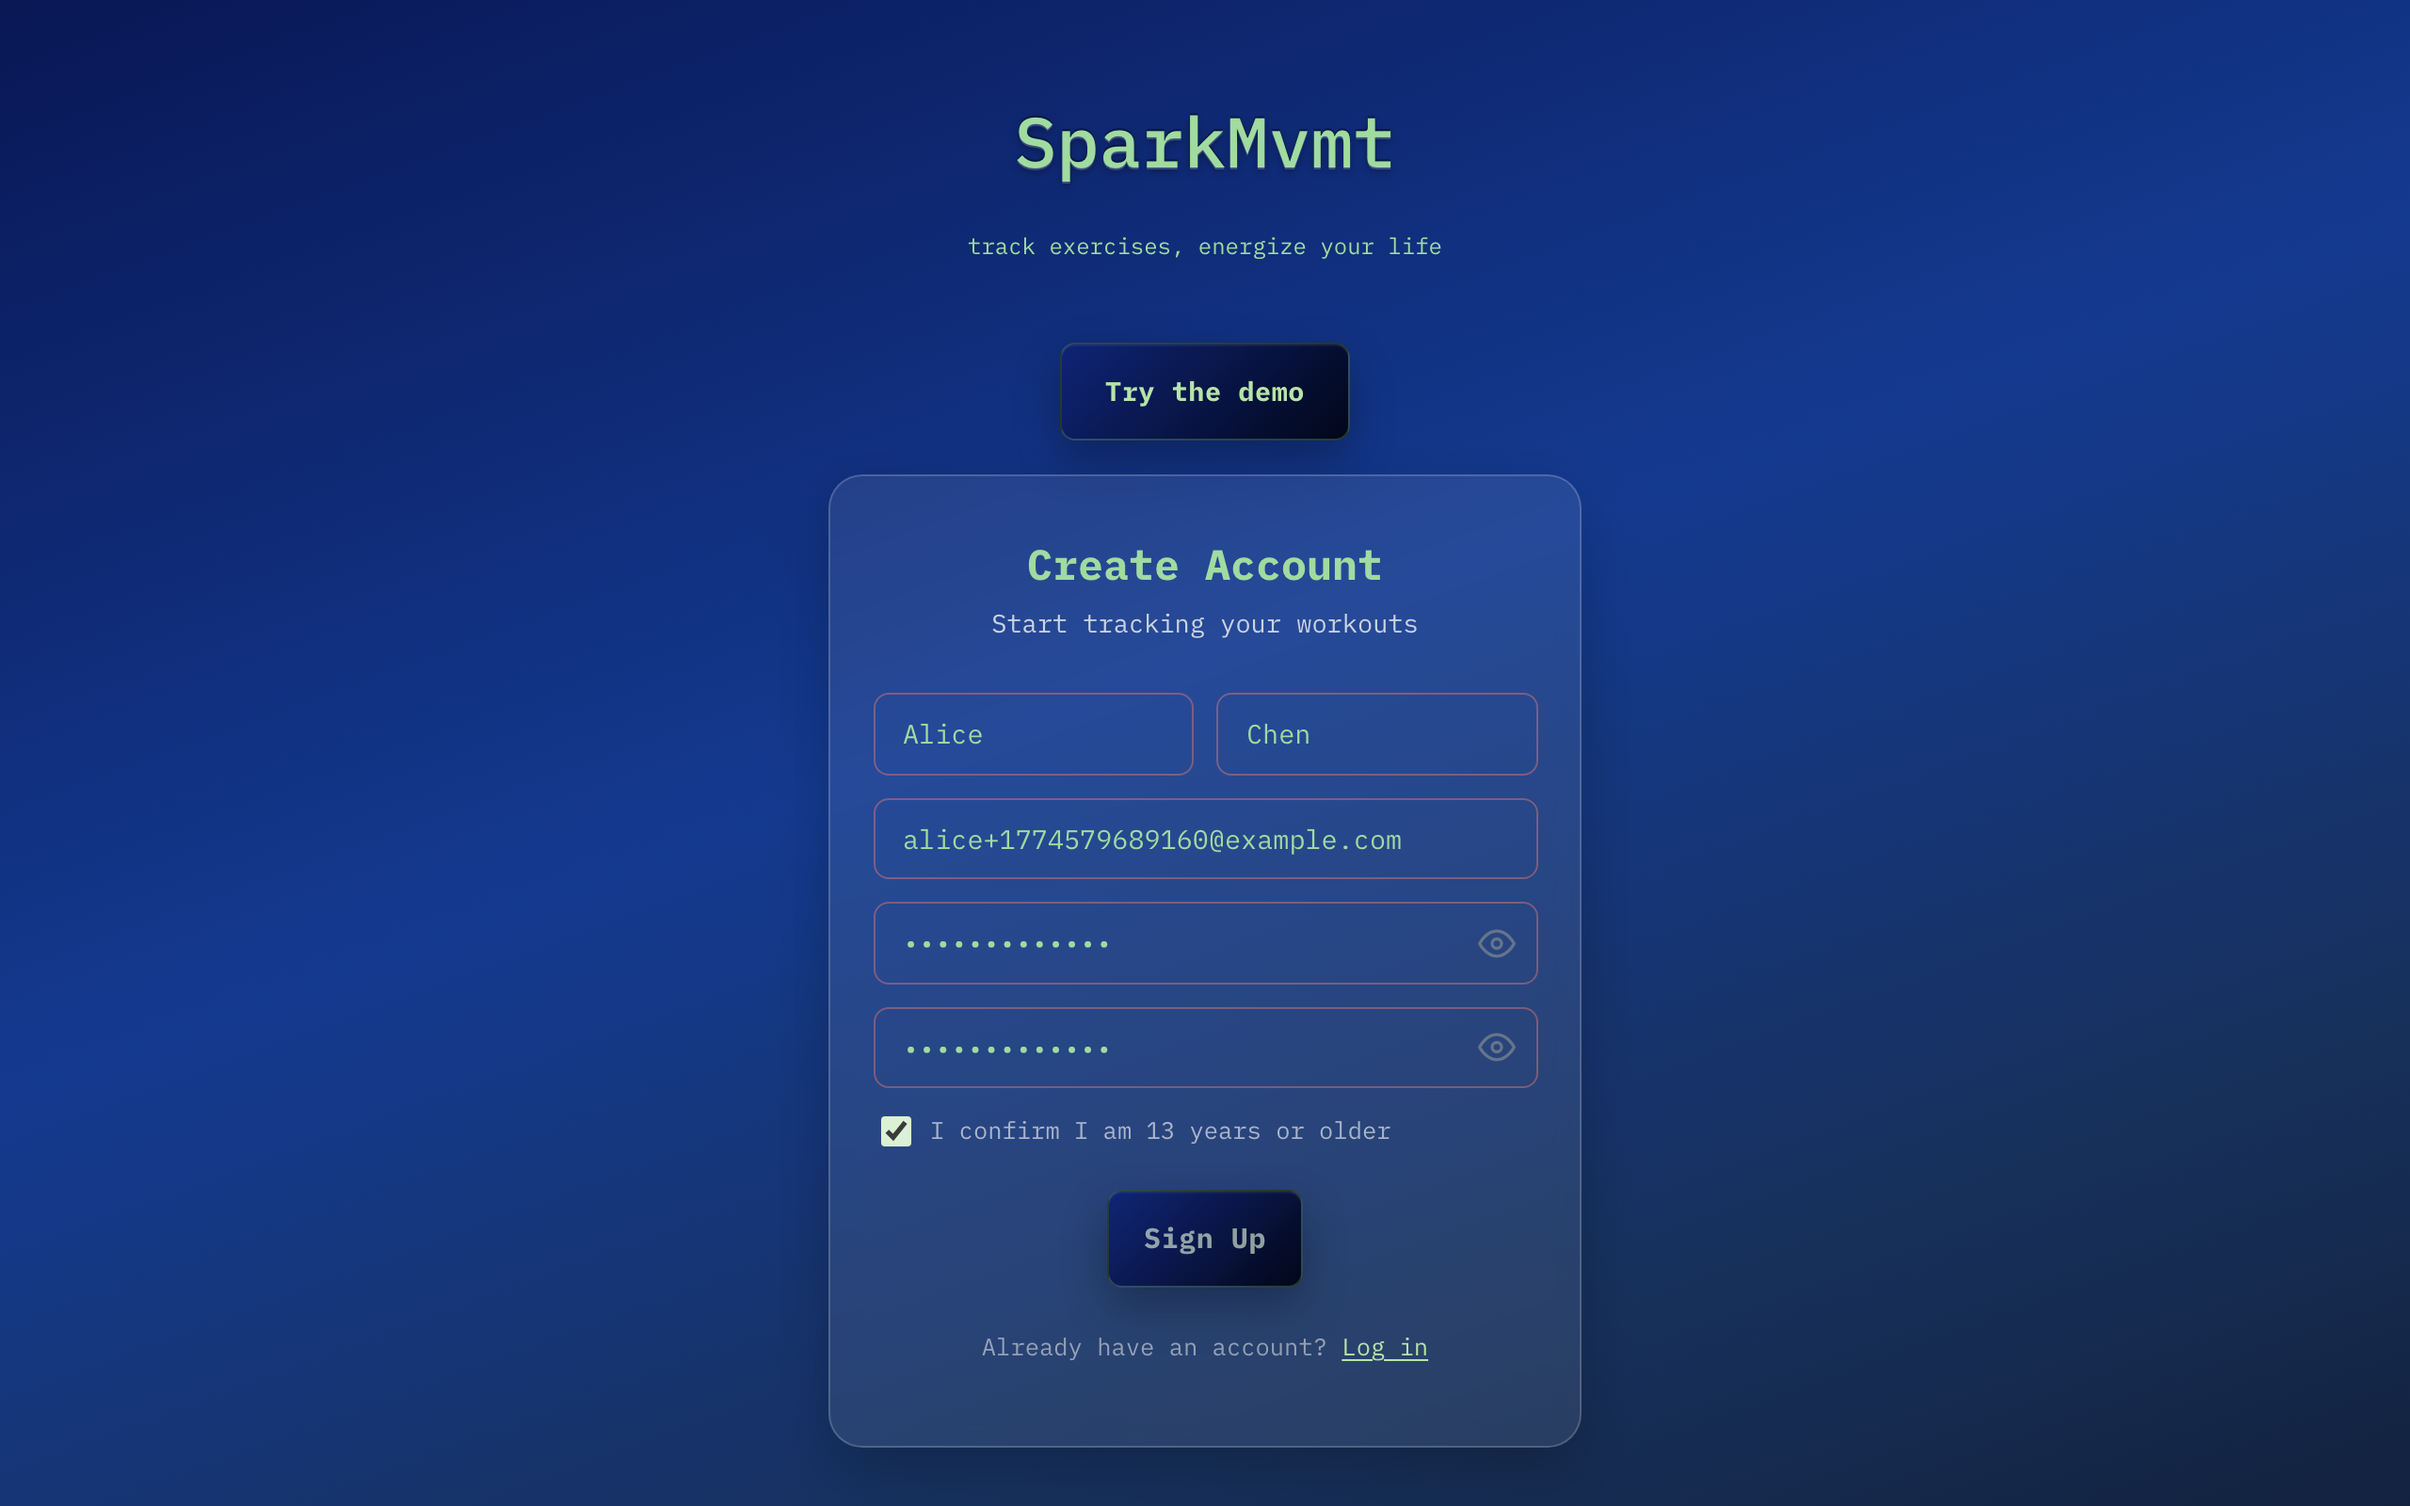
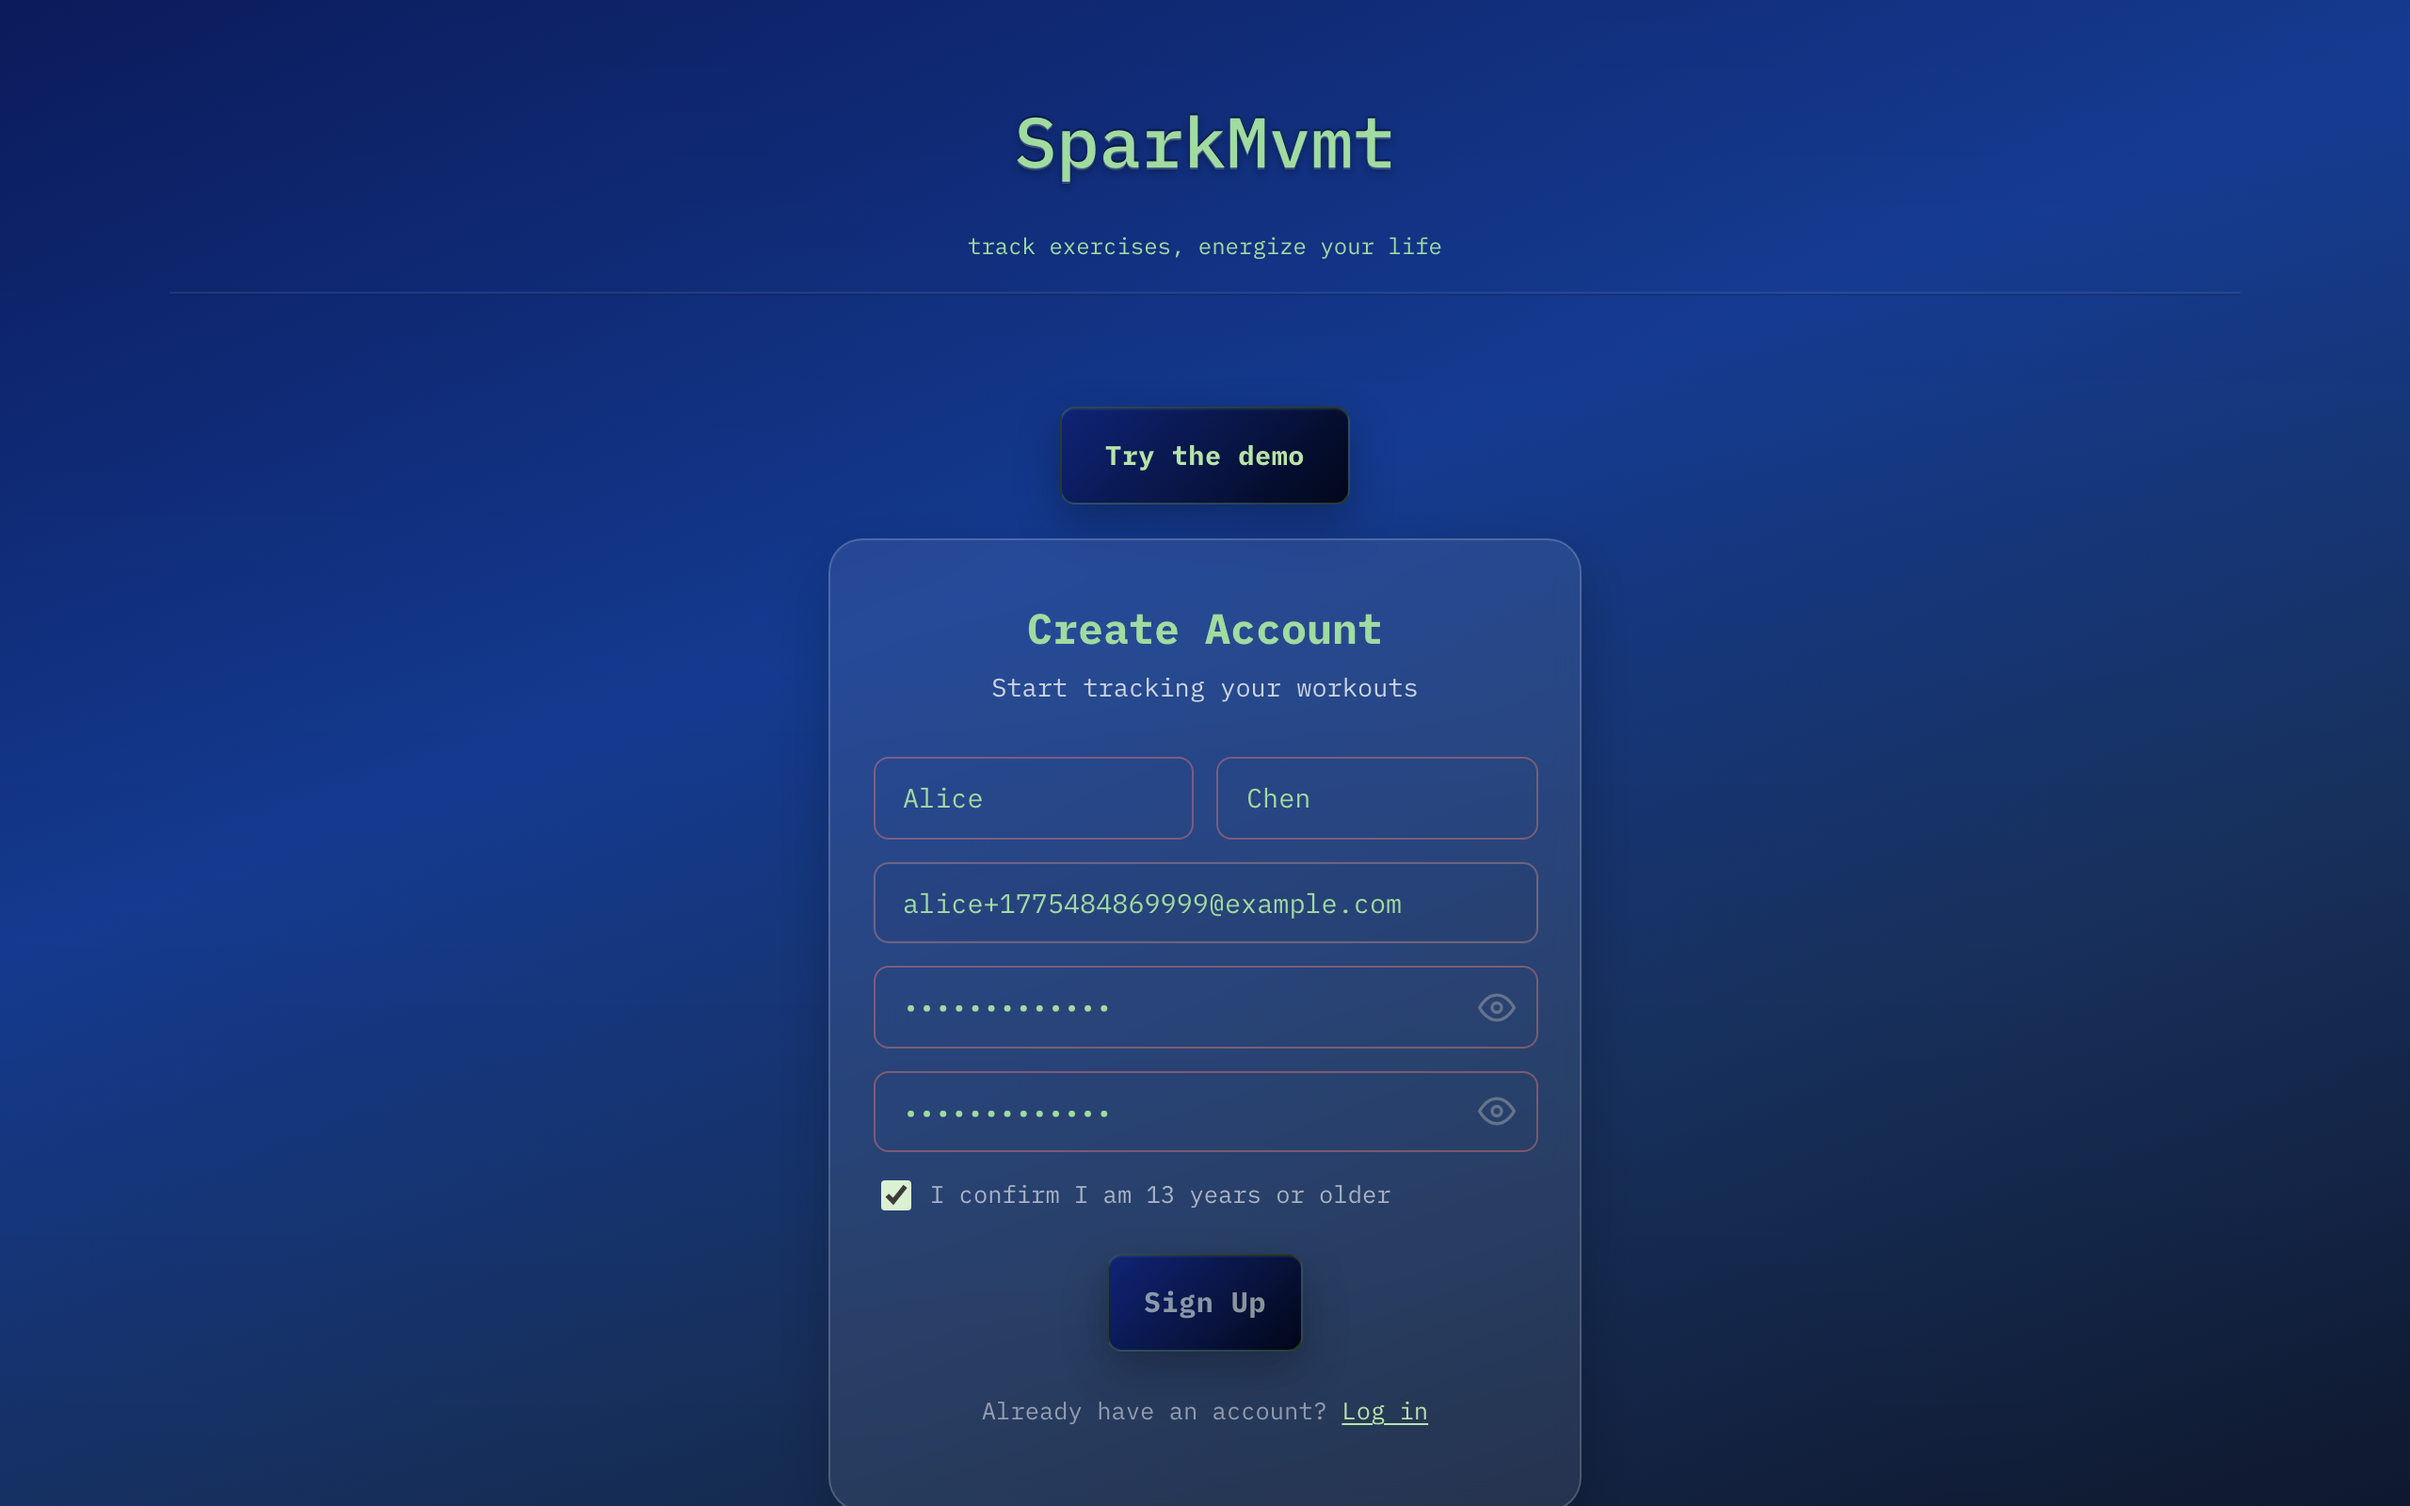
Refresh README and screenshots for dashboard release
- rerun screenshot captures against the current app UI
- update README copy to better reflect the dashboard-first product story
- refresh screenshot captions and testing/CI descriptions
- keep project structure details accurate without stale test-count breakdowns

diff --git a/README.md b/README.md
@@ -2,9 +2,9 @@
 
 **[Live Demo →](https://sparkmvmt.com)**
 
-Full-stack exercise tracker where users log, edit, duplicate, and delete workouts through a responsive single-page UI. Exercise names and notes are encrypted on your device before they leave the browser — not even the server can read them. One-click demo mode lets anyone try it instantly.
+Full-stack exercise tracker for logging workouts and getting something meaningful back from the habit. A dashboard reflects activity with adaptive exercise counts, editable purpose, and latest PR surfacing, while exercise names and notes are encrypted on your device before they leave the browser. One-click demo mode lets anyone try it instantly.
 
-React + Vite SPA on S3 + CloudFront, Dockerized Express API on EC2 Auto Scaling Group behind an ALB with ACM TLS termination. E2E encryption (AES-256-GCM, PBKDF2-derived keys, IndexedDB cache), SSM Parameter Store for secrets, IAM role-based ECR auth, JWT token rotation with Argon2, object-level authorization, 120 automated tests, and CI/CD via GitHub Actions.
+React + Vite SPA on S3 + CloudFront, Dockerized Express API on EC2 Auto Scaling Group behind an ALB with ACM TLS termination. E2E encryption (AES-256-GCM, PBKDF2-derived keys, IndexedDB cache), SSM Parameter Store for secrets, IAM role-based ECR auth, JWT token rotation with Argon2, object-level authorization, 133 automated tests, and CI/CD via GitHub Actions.
 
 ## Architecture
 
@@ -29,9 +29,9 @@ api.sparkmvmt.com →  │    ALB (ACM TLS termination)     │
                      │         MongoDB Atlas            │
                      └──────────────────────────────────┘
 
-CI/CD: GitHub Actions → test → build (ARM) → push ECR → ASG rolling deploy → smoke test
-       Frontend deploys after backend (sequential)
-       Manual dispatch available for operational recovery
+CI/CD: GitHub Actions → backend/frontend checks → E2E → backend deploy + smoke test → frontend deploy
+Frontend deploys independently on frontend-only changes; full-stack deploys sequence backend then frontend.
+Manual dispatch is available for operational recovery.
 ```
 
 - **Frontend:** Vite + React SPA deployed to S3, served via CloudFront
@@ -42,31 +42,34 @@ CI/CD: GitHub Actions → test → build (ARM) → push ECR → ASG rolling depl
 ## Screenshots
 
 ![Sign up](docs/01-signup.png)
-*Account creation with real-time password validation*
+*Account creation with live validation and a direct path into the app*
 
 ![Welcome](docs/02-home-empty.png)
-*Empty state with example row and welcome message*
+*First-run home state that points the user toward logging right away*
 
 ![Exercise log](docs/04-home-populated.png)
-*Home page with logged exercises*
+*Dashboard that reflects progress back to the user with activity, purpose, PRs, and a progressive log*
 
 ![Log an exercise](docs/03-create-exercise.png)
-*Exercise form with bodyweight support*
+*Exercise form with room for context, not just reps and weight*
 
 ---
 
 ## Features
 
+- **Dashboard summary** — adaptive exercise count card, editable purpose, and latest PR card on arrival
+- **Personal record tracking** — current and historic PR detection for weighted and bodyweight movements
+- **Demo mode** — one-click demo account with realistic seeded history, full CRUD access, auto-deleted after 24h
 - **E2E encryption** — exercise names and notes encrypted client-side before leaving the browser; the server stores only ciphertext
-- **Demo mode** — one-click demo account with ~25 seeded exercises, full CRUD access, auto-deleted after 24h
 - Log, edit, duplicate, and delete exercises
 - Exercise detail page with optional notes
 - Clickable table rows for quick access to details
+- Progressive exercise log reveal with `Less / More / All` controls and filtered tail preview
 - Dual save buttons on create: save & return, or save & add another
 - Confirm overlays for delete and discard actions
 - Bodyweight exercise support
 - Responsive desktop and mobile layouts with adaptive date formatting
-- Floating action button for quick exercise logging
+- Sticky log CTA for quick exercise logging
 - Accessible form controls with keyboard navigation
 - Real-time form validation with toast feedback
 - Session restoration across page reloads with loading states
@@ -83,10 +86,10 @@ CI/CD: GitHub Actions → test → build (ARM) → push ECR → ASG rolling depl
 - DB-aware health check (`/health` verifies MongoDB connection) — ALB auto-replaces unhealthy instances
 - Graceful shutdown on SIGTERM for zero-downtime container deploys
 - ECR image pipeline with IAM instance role authentication
-- 120 automated tests: 91 backend (node:test + supertest + mongodb-memory-server) and 29 E2E (Playwright)
+- 133 automated tests: 96 backend (node:test + supertest + mongodb-memory-server), 8 frontend (Vitest + Testing Library), and 29 E2E (Playwright)
 - Client-side E2E encryption — AES-256-GCM with PBKDF2-derived keys, per-field IV, IndexedDB cache for decrypted data across sessions. Zero-knowledge: the server never sees plaintext or the user's password
-- CI/CD via GitHub Actions — OIDC auth (no stored AWS keys), change detection gates deploys, native ARM builds with Docker layer caching, sequential deploy ordering (backend then frontend), zero-downtime ASG instance refresh with AWS-native auto-rollback, post-deploy smoke test, manual dispatch for operational recovery
-- Branch protection on main — required status checks (lint, backend tests, E2E), strict up-to-date, enforce admins
+- CI/CD via GitHub Actions — OIDC auth (no stored AWS keys), change detection gates deploys, frontend lint/test/build checks, native ARM builds with Docker layer caching, conditional deploy ordering (frontend-only independent, full-stack backend then frontend), zero-downtime ASG instance refresh with AWS-native auto-rollback, post-deploy smoke test, manual dispatch for operational recovery
+- Branch protection on main — required status checks (lint, backend tests, frontend tests, frontend build, E2E), strict up-to-date, enforce admins
 - Least-privilege IAM — ec2:RunInstances scoped to launch template via condition key, PassRole restricted to EC2 service
 - Load tested with k6 to validate horizontal scaling handles CPU-bound load which fails on single instance
 
@@ -94,7 +97,7 @@ CI/CD: GitHub Actions → test → build (ARM) → push ECR → ASG rolling depl
 
 ## Project Structure
 
-```
+```text
 ├── frontend/
 │   └── src/
 │       ├── pages/          # LoginPage, HomePage, ExerciseFormPage, ExerciseDetail
@@ -111,16 +114,16 @@ CI/CD: GitHub Actions → test → build (ARM) → push ECR → ASG rolling depl
 │   ├── demoSeed.mjs         # Seed data generator for demo accounts
 │   ├── tests/               # Backend test suite (node:test + supertest + mongodb-memory-server)
 │   │   ├── setup.mjs        # In-memory MongoDB, test helpers
-│   │   ├── validation.test.mjs  # Input validation unit tests (30 tests)
-│   │   ├── auth.test.mjs        # Auth API integration tests (27 tests)
-│   │   └── exercises.test.mjs   # Exercise CRUD integration tests (34 tests)
+│   │   ├── validation.test.mjs  # Input validation unit tests
+│   │   ├── auth.test.mjs        # Auth and purpose API integration tests
+│   │   └── exercises.test.mjs   # Exercise CRUD integration tests
 │   ├── Dockerfile            # Multi-stage build (Node 24 Alpine, argon2 native deps)
 │   ├── compose.yaml          # Local container testing
 │   ├── k6-benchmark.js      # k6 load test script
 │   └── user-data.sh         # EC2 bootstrap: pull image from ECR, fetch secrets from SSM
 ├── .github/workflows/
 │   └── ci.yml              # Unified CI/CD: change detection, test, build, deploy
-├── e2e/
+└── e2e/
 │   ├── tests/               # Playwright E2E tests (29 tests)
 │   │   ├── auth.spec.mjs    # Auth flows, demo mode, session restore
 │   │   ├── exercises-crud.spec.mjs  # CRUD, duplicate, discard guard, delete cancel
@@ -149,11 +152,14 @@ You'll need:
 ### Testing
 
 ```bash
-cd backend && npm test              # 91 backend tests (~4s)
-cd e2e && npm test       # 29 E2E tests (~24s, needs servers running)
+cd backend && npm test              # 96 backend tests
+cd frontend && npm test             # 8 frontend tests
+cd e2e && npm test                  # 29 E2E tests (needs servers running)
 ```
 
-**Backend tests** use an in-memory MongoDB (mongodb-memory-server) — no external database needed. Covers input validation, auth flows, exercise CRUD, user isolation, and malformed ID handling.
+**Backend tests** use an in-memory MongoDB (mongodb-memory-server) — no external database needed. Covers input validation, auth flows, exercise CRUD, user isolation, malformed ID handling, and purpose updates.
+
+**Frontend tests** use Vitest + Testing Library. Covers dashboard logic and progressive log behavior, including PR utilities, adaptive counts, greetings, and reveal controls.
 
 **E2E tests** use Playwright against running dev servers. Covers auth, full CRUD, form validation, demo mode, discard guards, and session persistence.
 
@@ -170,9 +176,10 @@ Merging to `main` triggers automated deployment via GitHub Actions (`ci.yml`).
 ```
 push/PR → change detection → backend tests (if changed)
                             → frontend lint (if changed)
+                            → frontend tests/build (if changed)
                             → E2E tests (always)
                             → deploy backend (if changed, push only)
-                            → deploy frontend (after backend, if changed, push only)
+                            → deploy frontend (frontend-only independent, full-stack after backend)
 
 Manual dispatch: workflow_dispatch with backend/frontend/both selector
 ```
@@ -216,7 +223,7 @@ Decrypted exercises are cached in IndexedDB so the app works across page reloads
 This is a zero-knowledge architecture: even with full database access, exercise data is unreadable without the user's password.
 
 ### Demo Mode
-Clicking "Try the demo" creates a throwaway user with ~25 realistic seeded exercises spread across the last few weeks. Demo users get full CRUD access — the experience is identical to a real account. Both the user and their exercises have a `demoExpiresAt` field with a MongoDB TTL index, so they're automatically cleaned up after 24 hours with zero maintenance.
+Clicking "Try the demo" creates a throwaway user with realistic seeded training history, a visible purpose, current-day activity, and enough depth to power the dashboard and PR views. Demo users get full CRUD access — the experience is identical to a real account. Both the user and their exercises have a `demoExpiresAt` field with a MongoDB TTL index, so they're automatically cleaned up after 24 hours with zero maintenance.
 
 ### Accessibility
 Button elements for all actions, `aria-label` on icon buttons, preserved focus states for keyboard navigation.
